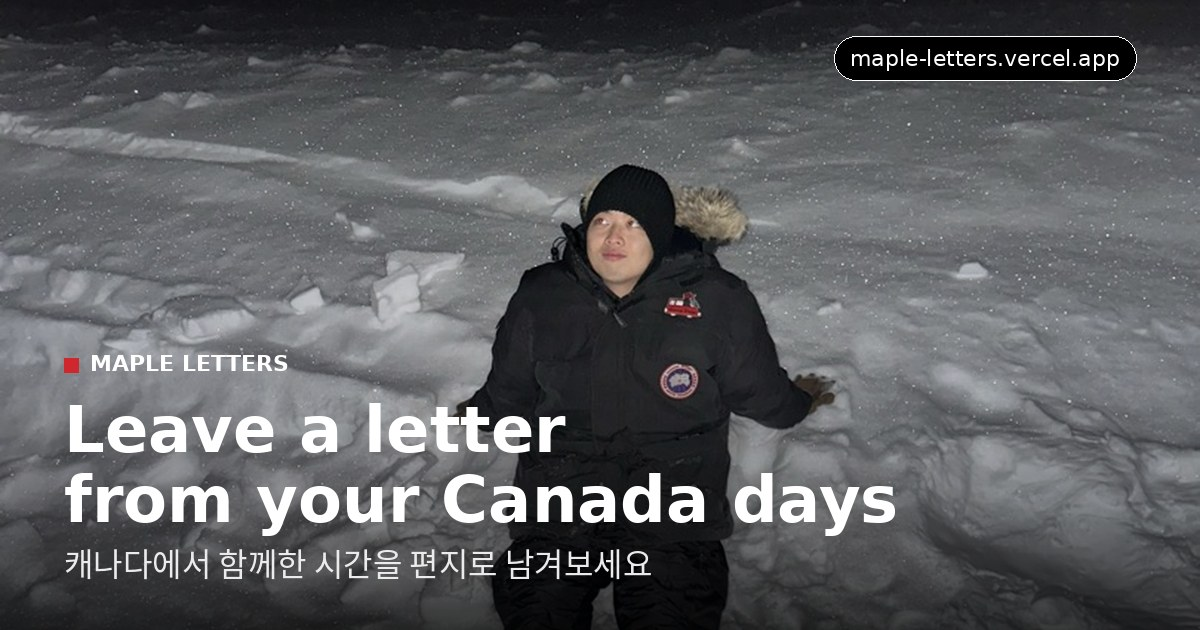
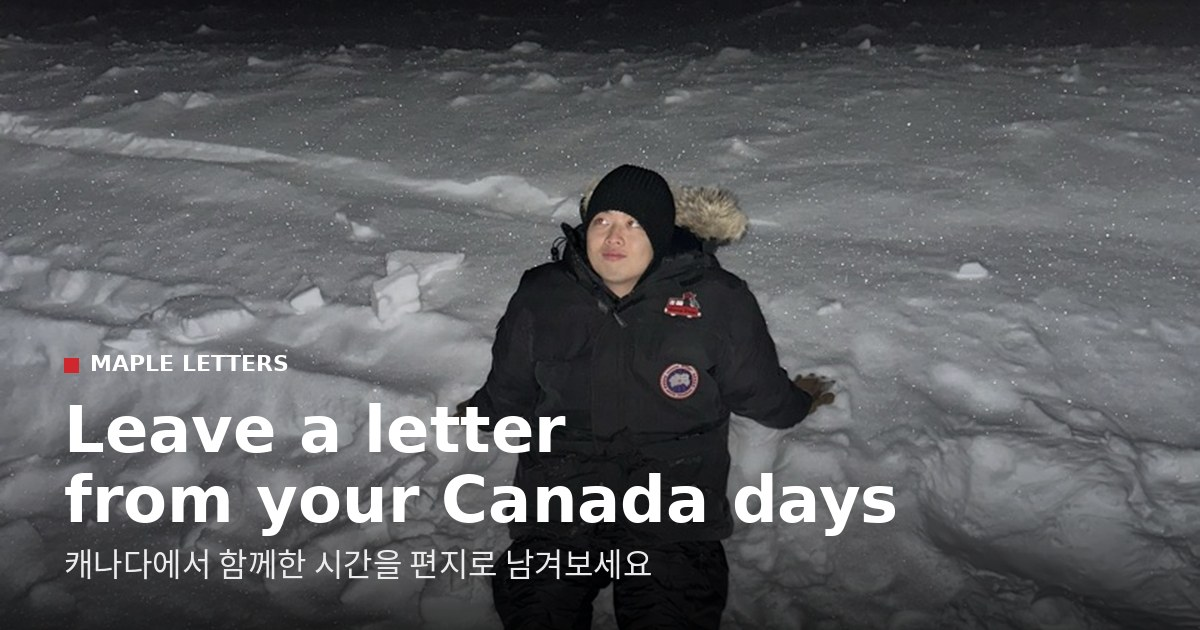
Remove URL badge from OG image

Changed region(s): [[0.6783, 0.0302, 0.9558, 0.1508]]

diff --git a/scripts/make_og.py b/scripts/make_og.py
@@ -110,23 +110,6 @@ def main() -> None:
     )
     draw.text((pad_x, sub_y), sub_text, font=kr_font, fill=(235, 235, 235))
 
-    # Top-right badge: maple-letters.vercel.app
-    url_text = "maple-letters.vercel.app"
-    url_font = find_font(reg_candidates, 22)
-    bbox = draw.textbbox((0, 0), url_text, font=url_font)
-    tw = bbox[2] - bbox[0]
-    th = bbox[3] - bbox[1]
-    bx, by = W - pad_x - tw - 32, 36
-    # Pill
-    draw.rounded_rectangle(
-        [bx, by, bx + tw + 32, by + th + 22],
-        radius=24,
-        fill=(0, 0, 0, 140),
-        outline=(255, 255, 255, 80),
-        width=1,
-    )
-    draw.text((bx + 16, by + 9), url_text, font=url_font, fill=(255, 255, 255))
-
     out = composite.convert("RGB")
     out.save(OUT, "JPEG", quality=88, optimize=True, progressive=True)
     print(f"wrote {OUT} ({OUT.stat().st_size} bytes)")